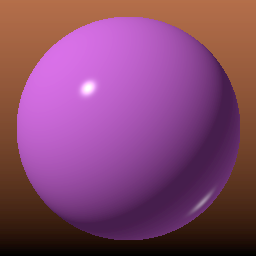
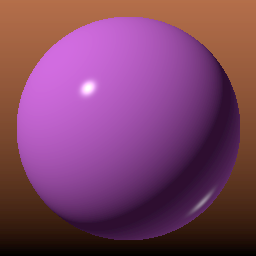
Diminish material ambient lighting from example 4

Changed region(s): [[0.2188, 0.2188, 0.9375, 0.9375]]

diff --git a/example/04_lit_sphere.rb b/example/04_lit_sphere.rb
@@ -15,8 +15,8 @@ def main
   canvas = Canvas.new(w, h)
 
   ray_origin = point(0, 0, -5)
-  purple_material = Material.new(color: color(0.7, 0.2, 0.8))
-  sphere = Sphere.new(identity_matrix, purple_material)
+  sphere_material = Material.new(color: color(0.7, 0.2, 0.8), ambient: 0.05)
+  sphere = Sphere.new(identity_matrix, sphere_material)
 
   light_1 = PointLight.new(point(-10, 10, -10),
                            WHITE)
